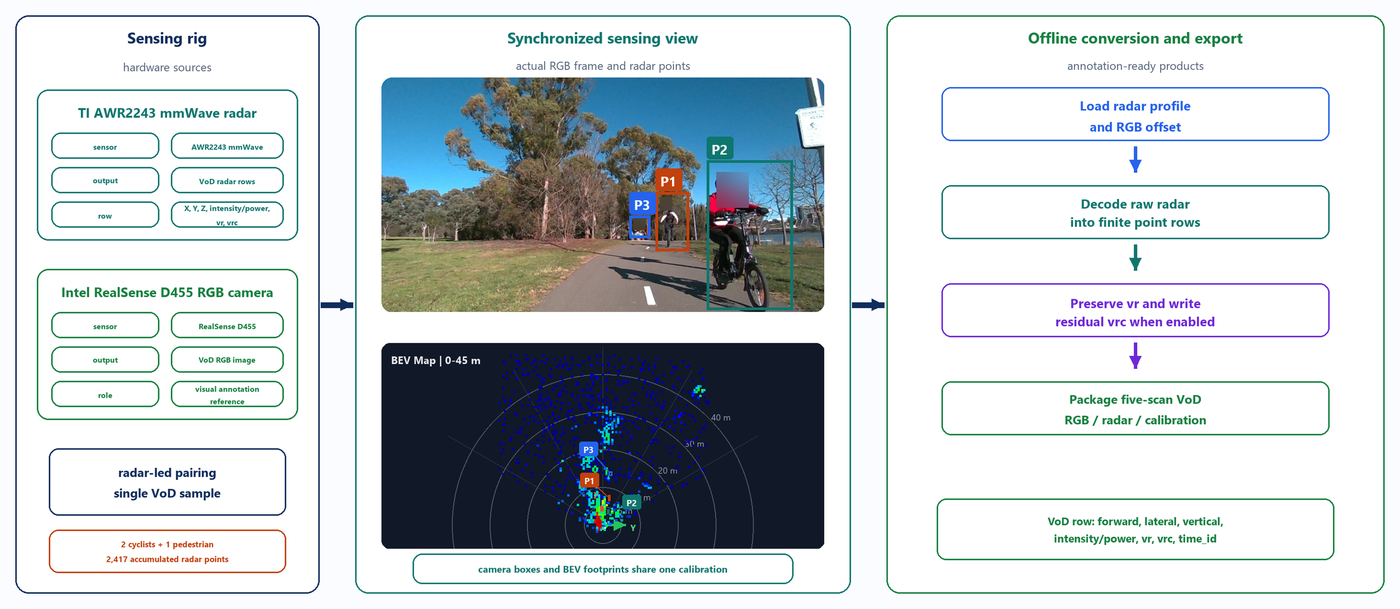
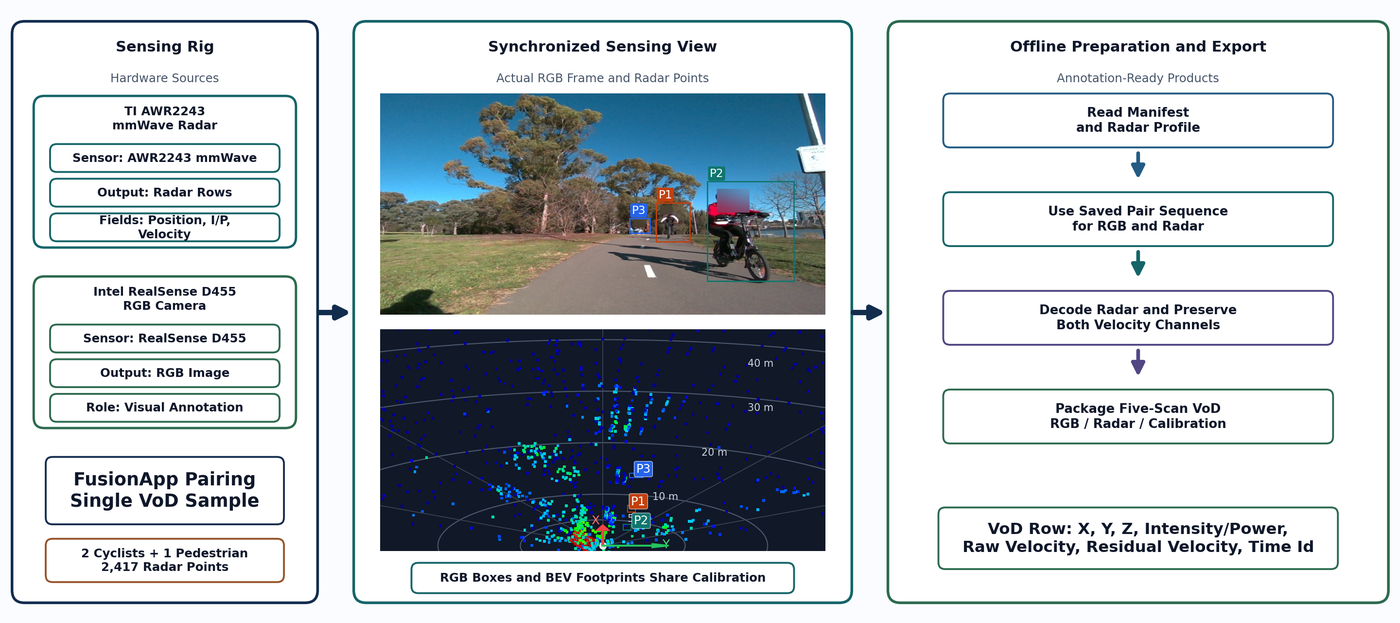
VoD_conversion

Changed region(s): [[0.0, 0.0, 1.0, 0.9984]]

diff --git a/FusionApp/vod_conversion/README.md b/FusionApp/vod_conversion/README.md
@@ -18,7 +18,7 @@ These scripts reuse the same radar analyser, RGB pairing rules, and calibration 
 | [`rebuild_scans_from_vod.py`](./rebuild_scans_from_vod.py) | Rebuild 1/3/5 packs from existing VoD clouds (e.g. after ego-motion changes) |
 | [`export_5_scan_ranges.py`](./export_5_scan_ranges.py) | Split a `5_scan` pack into sequence ranges |
 | [`sample_data/`](./sample_data/) | Sample recording (raw radar `.bin` + RGB `.png`) for testing the converter |
-| [`figures/`](./figures/) | Pipeline diagrams shown below |
+| [`figures/`](./figures/) | Pipeline diagrams (PNG counterparts of the `doc_14_july` vector figures) |
 
 Run every command from the **FusionApp** root so `config_files/` and Python packages resolve.
 
@@ -31,10 +31,11 @@ cd E:\Twowheelers_18_5\RoadSafetyOnTwoWheelers-main\FusionApp
 
 python vod_conversion\convert_raw_bin_to_vod.py `
   "E:\Twowheelers_18_5\recordings\YOUR_RECORDING_FOLDER" `
-  --config "config_files\AWR2243_87m_17cm_64_3_256.txt"
+  --config "config_files\AWR2243_87m_17cm_64_3_256.txt" `
+  --is-moving
 ```
 
-Use the **exact** AWR2243 profile that recorded the session. Add `--overwrite` if `data/` already exists. For a moving platform, add `--is-moving`.
+Use the **exact** AWR2243 profile that recorded the session. Prefer `--is-moving` for road / moving-platform captures (ego-motion compensation). Add `--overwrite` if `data/` already exists.
 
 ### Try with the included sample data
 
@@ -46,6 +47,7 @@ cd E:\Twowheelers_18_5\RoadSafetyOnTwoWheelers-main\FusionApp
 python vod_conversion\convert_raw_bin_to_vod.py `
   "vod_conversion\sample_data" `
   --config "config_files\AWR2243_87m_17cm_64_3_256.txt" `
+  --is-moving `
   --overwrite
 ```
 
@@ -81,57 +83,57 @@ YOUR_RECORDING_FOLDER/
 
 ---
 
-## Figures
+## Pipeline
 
-Pipeline overview for recording → sync → conversion → annotation-ready VoD-style packs. Images live next to this README under [`figures/`](./figures/) so they render on GitHub when this folder is pushed.
+How FusionApp recording becomes VoD-style `data/{1,3,5}_scan` packs. Diagrams are the PNG counterparts of the vector figures in `doc_14_july/figures`, stored under [`figures/`](./figures/) so they render on GitHub.
 
-### Fig. 1 — End-to-end architecture
+### 1. End-to-end architecture
 
-<p align="center">
-  <img src="./figures/fig01_real_architecture.png" alt="Fig. 1 — FusionApp end-to-end architecture from capture to annotation" width="100%">
-</p>
-
-FusionApp capture (D455 RGB + AWR2243 radar) through sync, conversion, and annotation-ready outputs.
-
-### Fig. 6 — FusionApp synchronization
+From live D455 RGB + AWR2243 radar capture through synchronization, offline conversion, and annotation-ready outputs.
 
 <p align="center">
-  <img src="./figures/fig06_fusionapp_synchronization.png" alt="Fig. 6 — FusionApp radar-led RGB synchronization" width="100%">
+  <img src="./figures/fig01_real_architecture.png" alt="FusionApp end-to-end architecture" width="100%">
 </p>
 
-Radar-led pairing: when a radar frame is saved, the corrected RGB buffer supplies the matching image for the VoD sample.
+### 2. FusionApp synchronization
 
-### Fig. 3 — Raw radar to VoD conversion
+Radar-led pairing inside FusionApp: when a radar frame is saved, the corrected RGB buffer supplies the matching camera image for that sample.
 
 <p align="center">
-  <img src="./figures/fig03_real_conversion.png" alt="Fig. 3 — Raw radar to VoD conversion flow" width="100%">
+  <img src="./figures/fig06_fusionapp_synchronization.png" alt="FusionApp radar-led RGB synchronization" width="100%">
 </p>
 
-Offline conversion flow: raw `.bin` → analyser detections → numbered `1` / `3` / `5` scan folders and manifest fields.
+### 3. Raw radar to VoD conversion
 
-### Fig. 2 — Pairing and annotation contract
+`convert_raw_bin_to_vod.py` turns raw `.bin` frames into analyser detections and numbered `1` / `3` / `5` scan folders with a shared manifest.
 
 <p align="center">
-  <img src="./figures/fig02_real_pairing.png" alt="Fig. 2 — RGB and radar pairing for annotation" width="100%">
+  <img src="./figures/fig03_real_conversion.png" alt="Raw radar to VoD conversion flow" width="100%">
 </p>
 
-Synchronized RGB, bird’s-eye radar view, and how calibrated footprints relate to the annotation layout.
+### 4. Pairing and annotation layout
 
-### Fig. 4 — Velocity compensation (moving platform)
+Synchronized RGB and bird’s-eye radar view, and how calibrated footprints map onto the annotation contract (`image_2`, `radar`, `calib`).
 
 <p align="center">
-  <img src="./figures/fig04_real_velocity_compensation.png" alt="Fig. 4 — Velocity compensation for multi-scan stacks" width="100%">
+  <img src="./figures/fig02_real_pairing.png" alt="RGB and radar pairing for annotation" width="100%">
 </p>
 
-Why multi-scan stacks need ego-motion handling: compensated velocity / accumulation for denser clouds.
+### 5. Velocity compensation on a moving platform
 
-### Fig. 5 — Speed-compensation mechanism
+Why multi-scan stacks need ego-motion handling: compensated velocity and accumulation produce denser, consistent clouds when using `--is-moving`.
 
 <p align="center">
-  <img src="./figures/fig05_speed_compensation_mechanism.png" alt="Fig. 5 — Speed-compensation mechanism" width="100%">
+  <img src="./figures/fig04_real_velocity_compensation.png" alt="Velocity compensation for multi-scan stacks" width="100%">
 </p>
 
-Bearing, ego-velocity projection, and residual Doppler used when converting with `--is-moving`.
+### 6. Speed-compensation mechanism
+
+Bearing, ego-velocity projection, and residual Doppler used to update `velocities_comp` during conversion with `--is-moving`.
+
+<p align="center">
+  <img src="./figures/fig05_speed_compensation_mechanism.png" alt="Speed-compensation mechanism" width="100%">
+</p>
 
 ---
 
